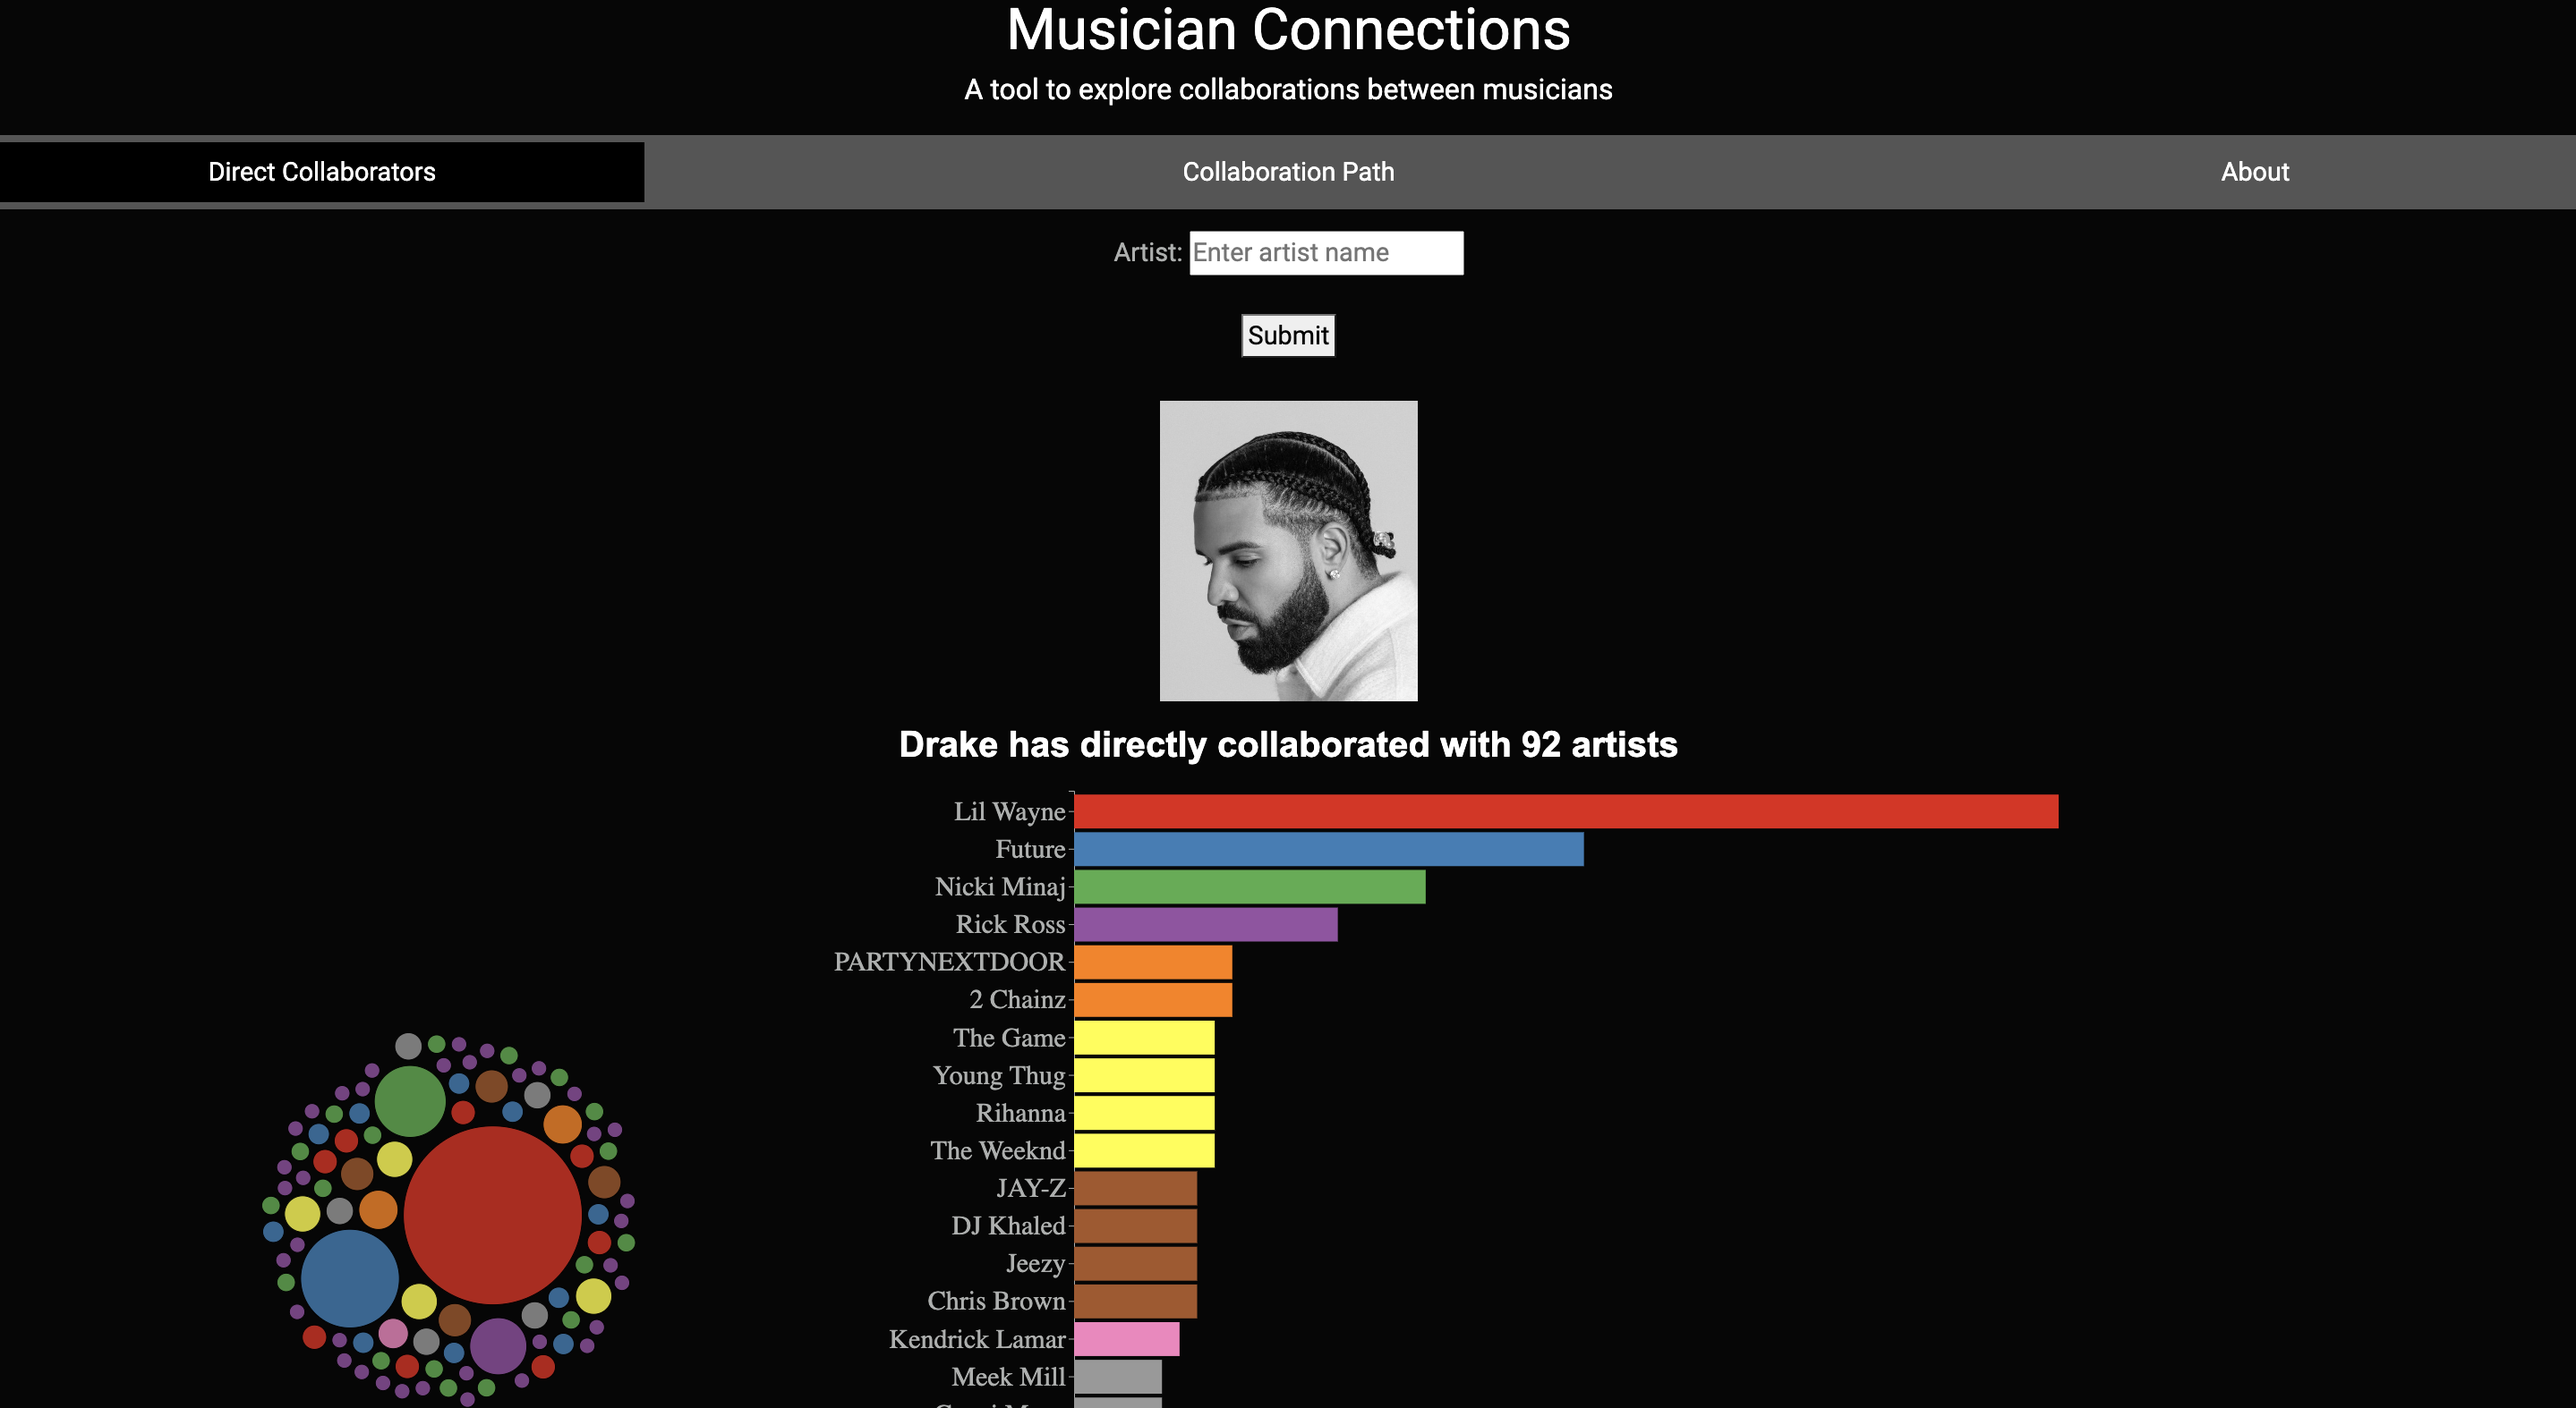
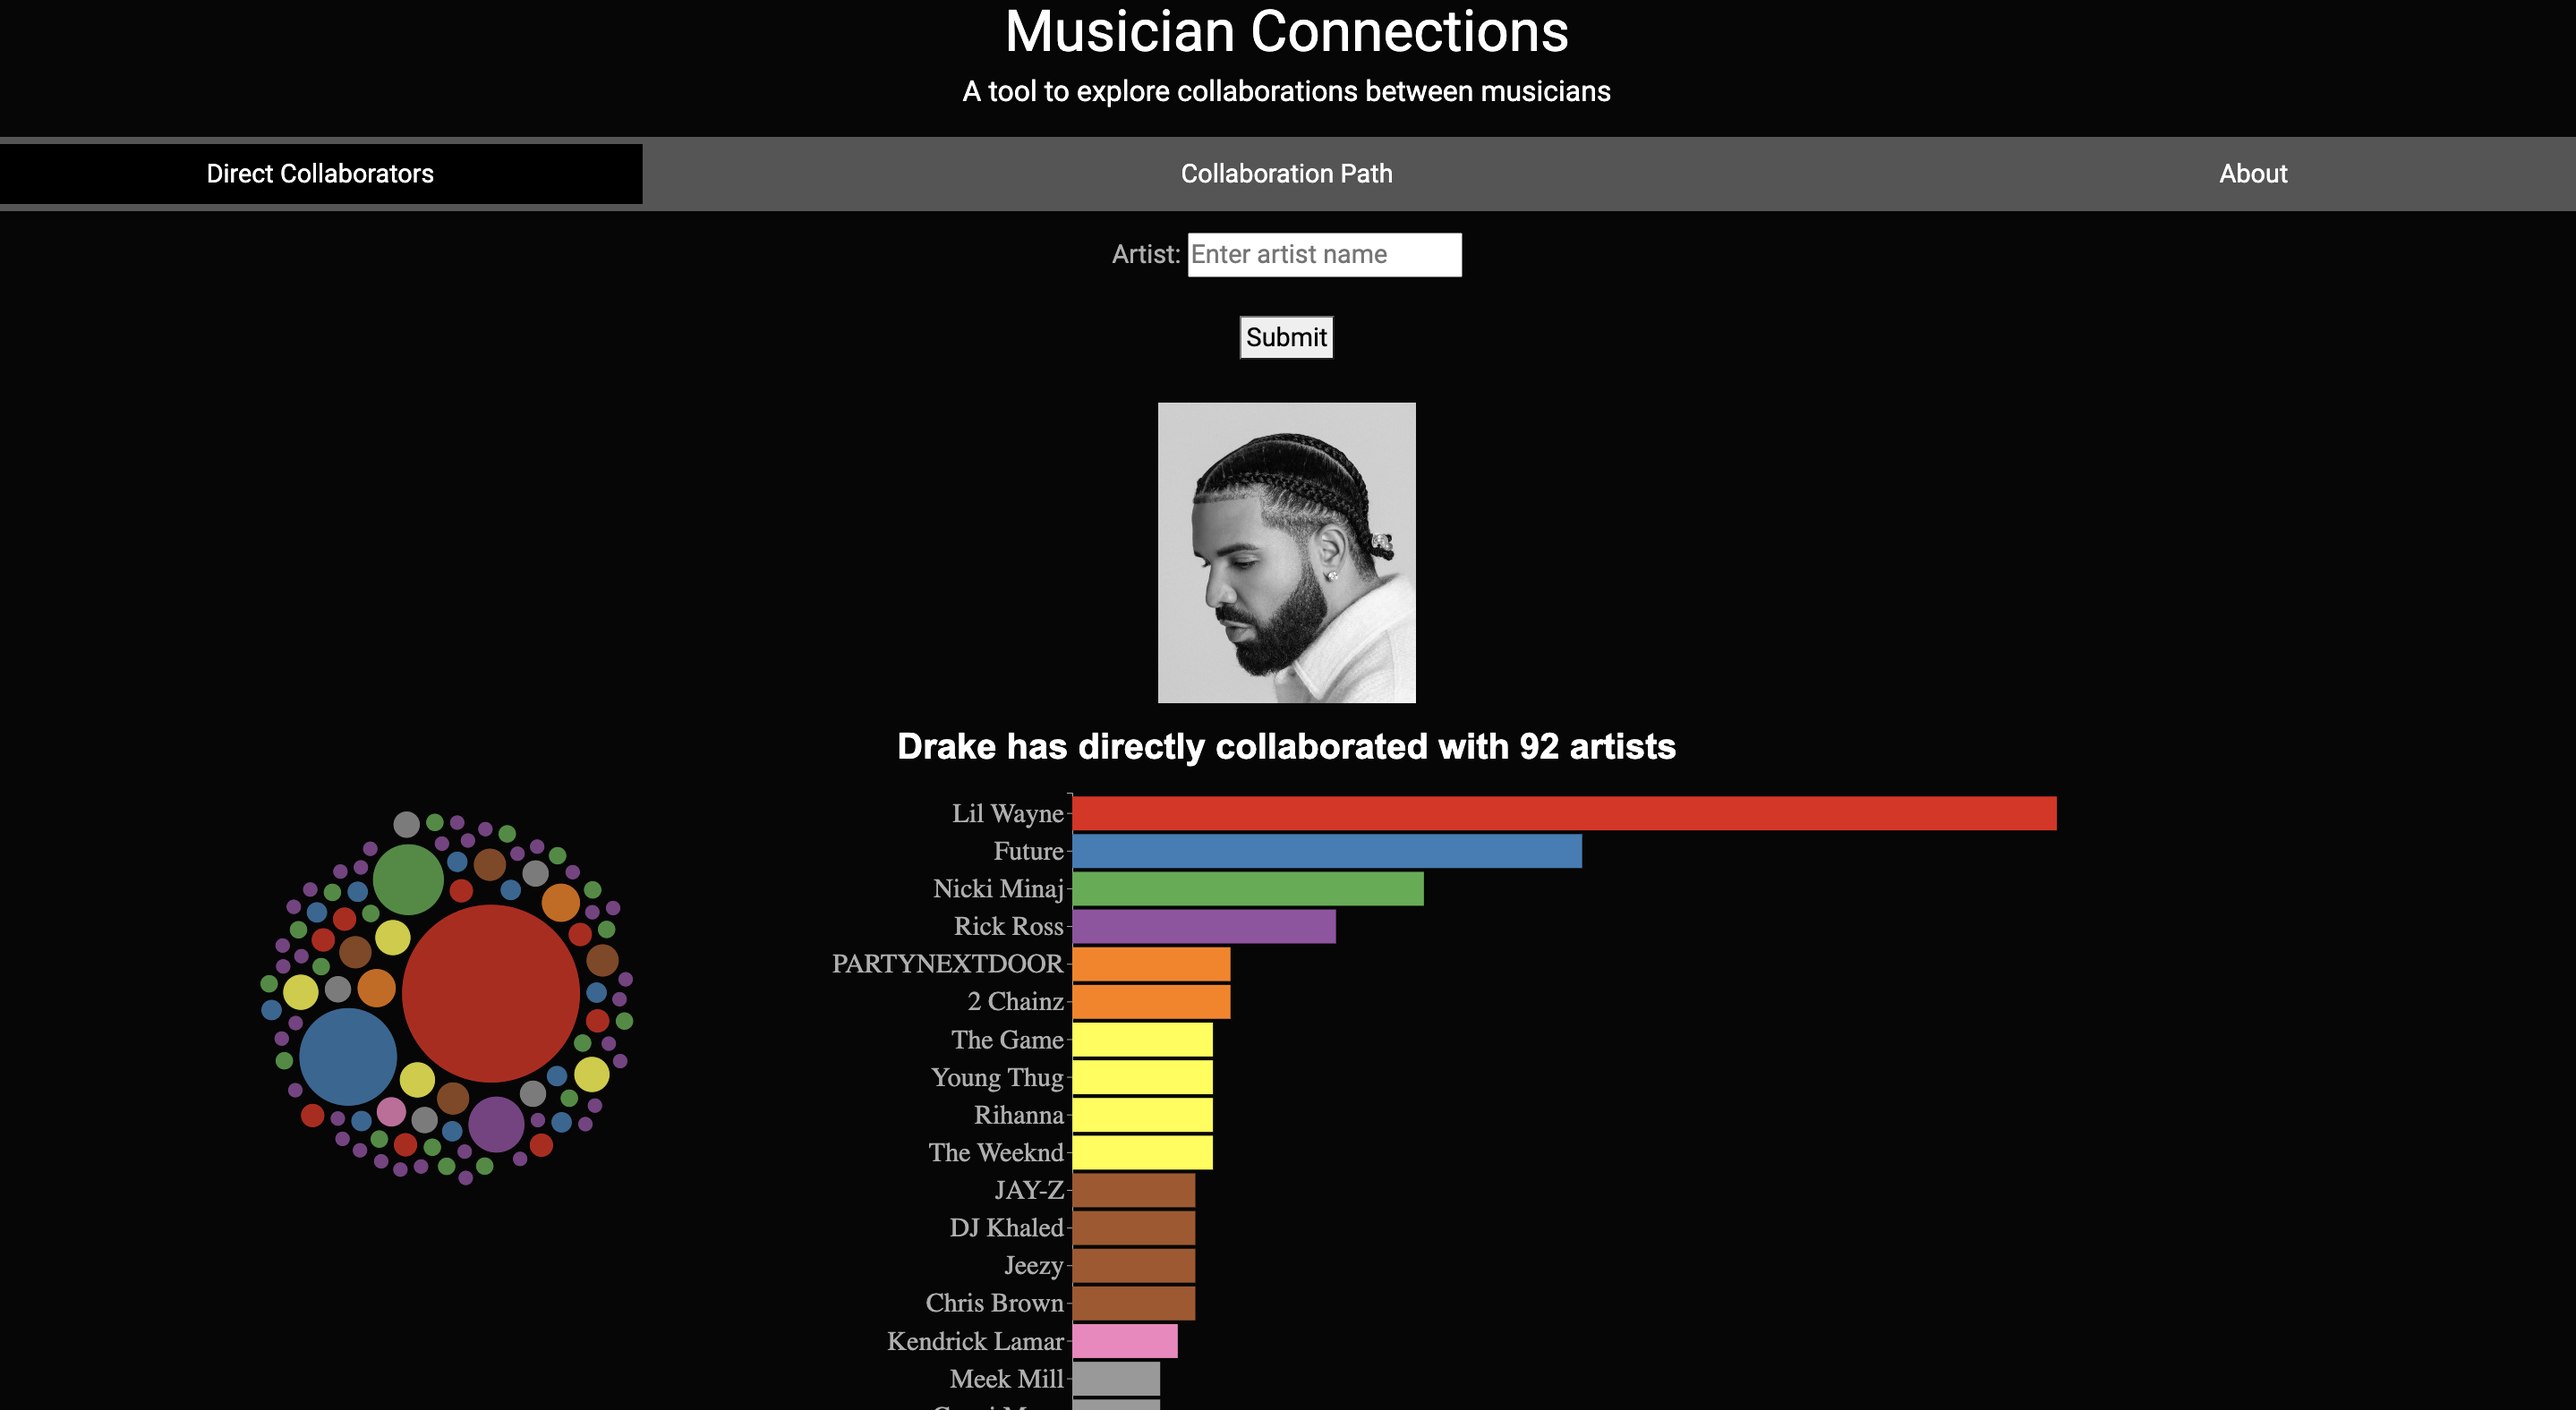
update

diff --git a/static/js/circle-chart.js b/static/js/circle-chart.js
@@ -1,7 +1,7 @@
 //Adatped from: https://d3-graph-gallery.com/graph/circularpacking_template.html
 
 let width = 1000;
-let height = 1000;
+let height = 500;
 
 // append the svg object to the body of the page
 const svg = d3.select("#my_dataviz")

diff --git a/README.md b/README.md
@@ -14,10 +14,9 @@ Analyze collaborations between famous musicians
  -->
 [Link to YouTube Video](https://www.youtube.com/watch?v=KpuqFtTYpeQ)
 
-[Link to Heroku Deployment](musician-connections.herokuapp.com/)
+[Link to Heroku Deployment](https://musician-connections.herokuapp.com/)
 
 ## Running locally
-
 
 
 ### Neo4j Database 
@@ -62,3 +61,6 @@ python app.py
 ```
 
 
+
+## Acknowledgements
+Thanks to [Siddharth Lakkoju](https://github.com/sidlakkoju) for feedback on ideas and setting up the Neo4j Aura DB used for the Heroku deployment.
